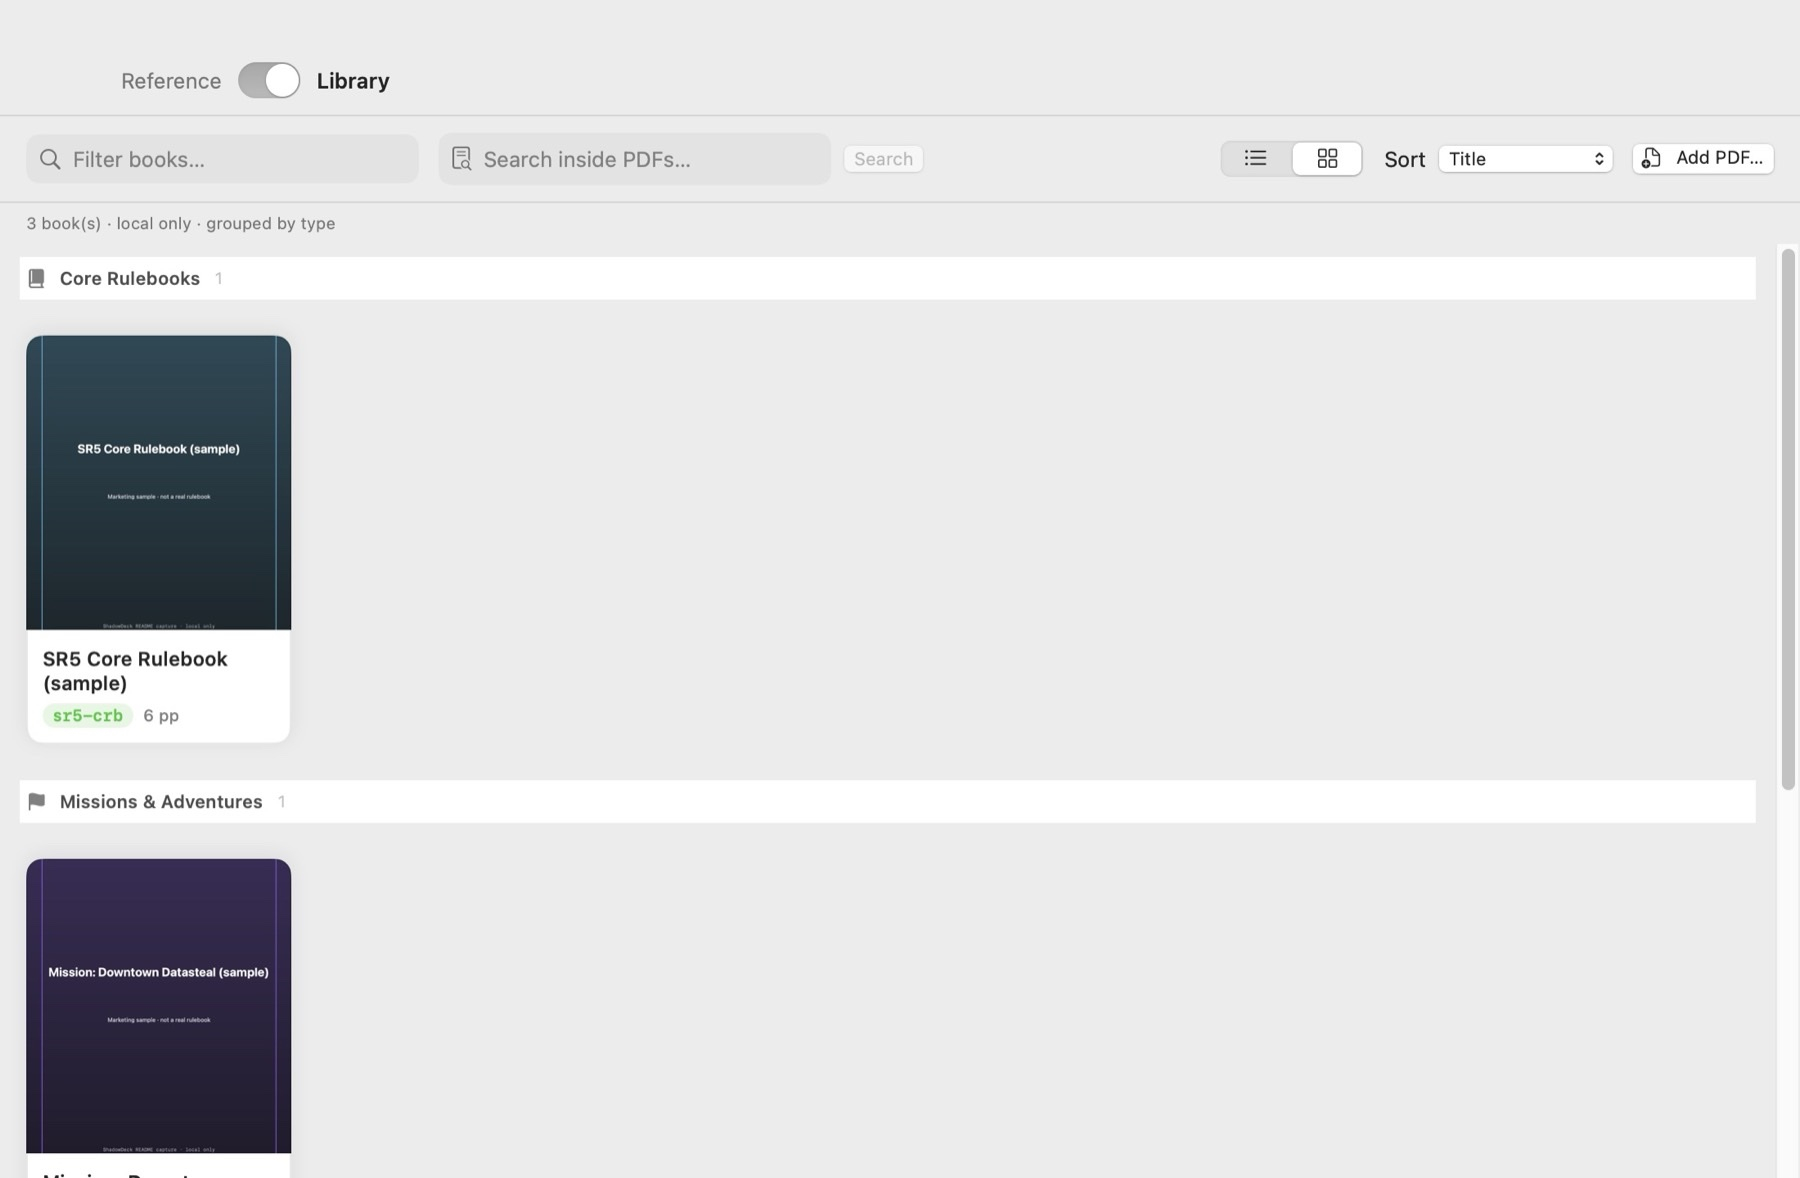
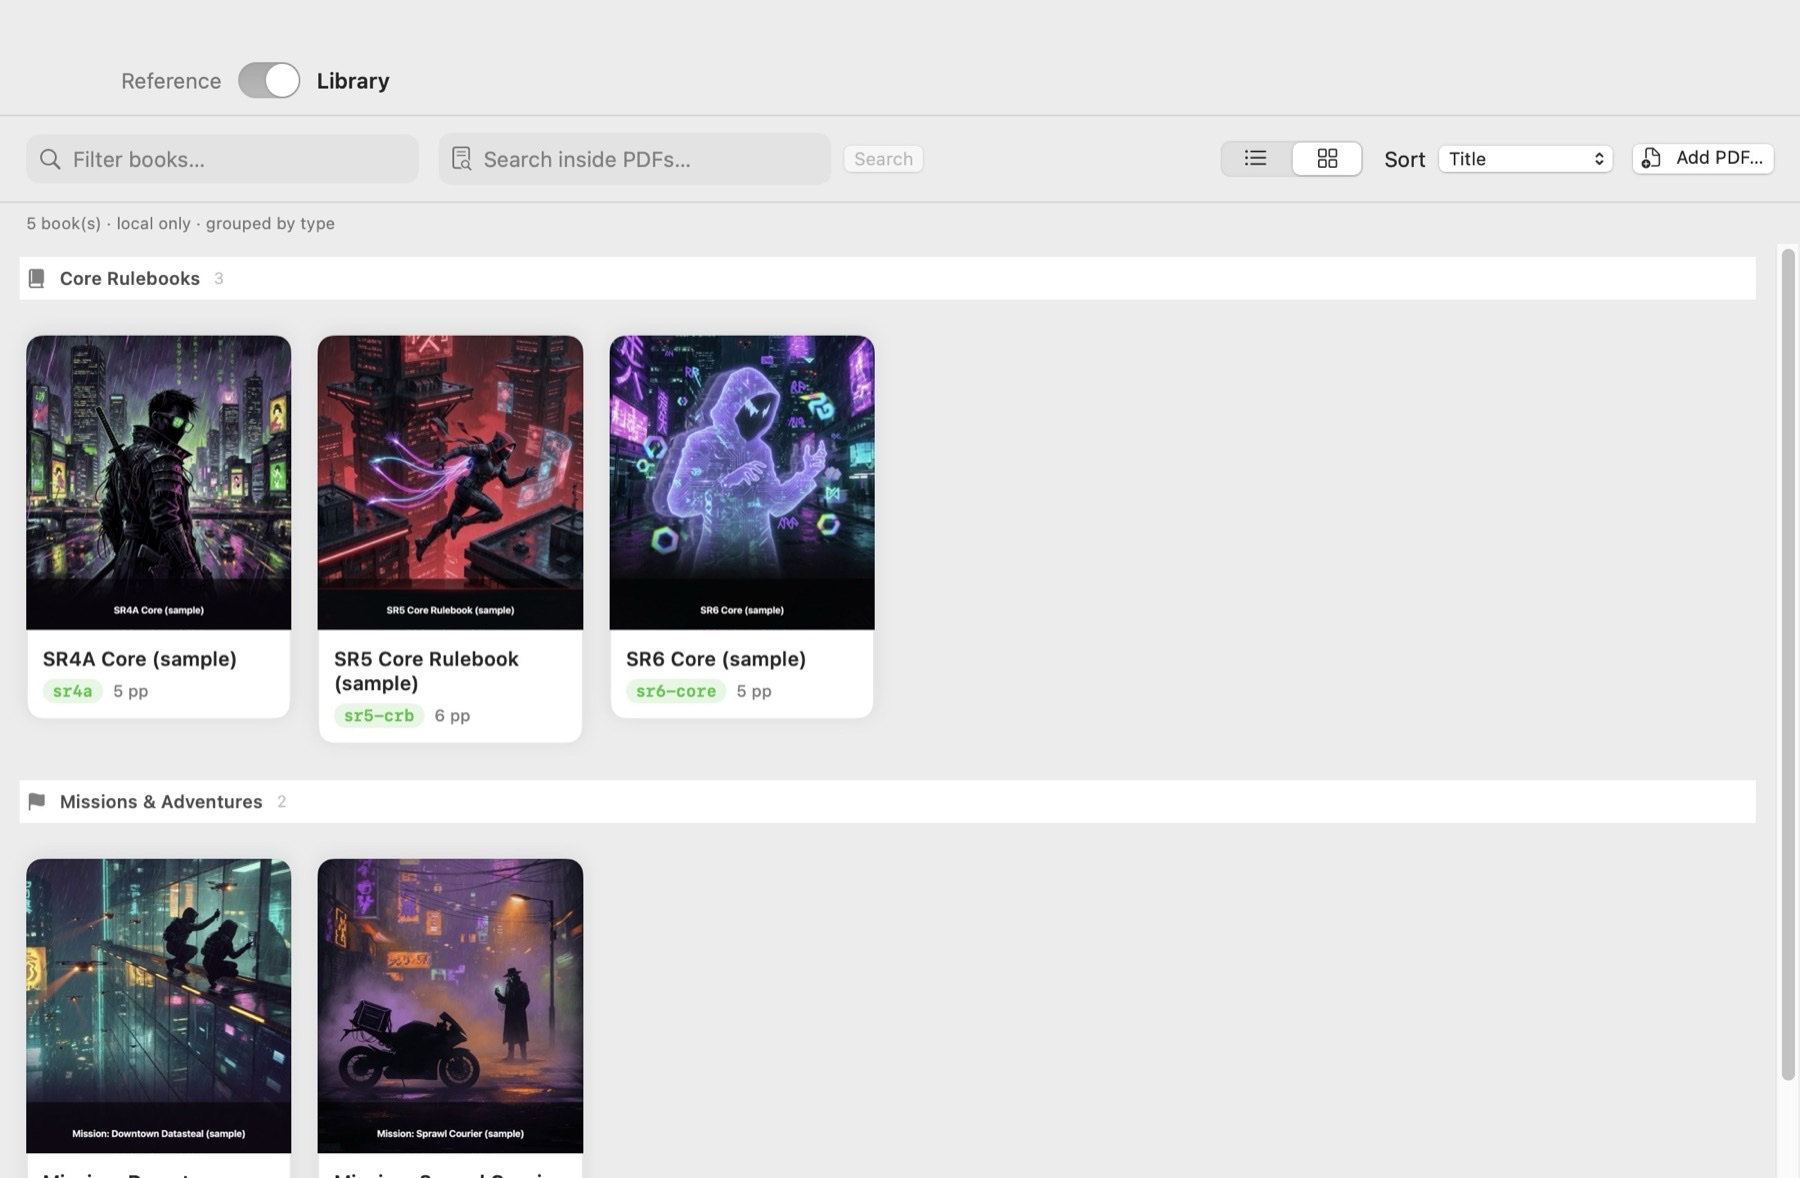
Add original PDF shelf cover art for marketing captures.
Imagine-generated sample covers for SR4/SR5/SR6 cores and two mission
modules; seed the capture shelf from those assets and refresh README
PDF Library stills.

Changed region(s): [[0.0, 0.275, 0.4978, 0.6112], [0.0, 0.7029, 0.3422, 1.0], [0.9644, 0.6723, 1.0, 0.9168]]

diff --git a/ShadowDeck/UI/Rules/RulesReferenceSession.swift b/ShadowDeck/UI/Rules/RulesReferenceSession.swift
@@ -58,27 +58,78 @@ final class RulesReferenceSession: ObservableObject {
 
 // MARK: - Marketing sample PDFs
 
-/// Synthetic multi-page PDFs for README captures (labels say “sample”; no real rule text).
+/// Synthetic multi-page PDFs for README captures (covers from bundled original art;
+/// labels say “sample”; no real rule text or publisher assets).
 @MainActor
 enum MarketingPDFLibrarySeeder {
+    private struct Spec {
+        var title: String
+        var bookKey: String?
+        var tags: [String]
+        var section: PDFShelfSection
+        var coverResource: String
+        var pages: Int
+    }
+
+    /// Three core samples (one per edition) + two mission samples for the shelf marquee.
+    private static let specs: [Spec] = [
+        Spec(
+            title: "SR4A Core (sample)",
+            bookKey: PageRef.BookKey.sr4a,
+            tags: ["SR4"],
+            section: .coreRulebook,
+            coverResource: "cover_sr4_core",
+            pages: 5
+        ),
+        Spec(
+            title: "SR5 Core Rulebook (sample)",
+            bookKey: PageRef.BookKey.sr5CRB,
+            tags: ["SR5"],
+            section: .coreRulebook,
+            coverResource: "cover_sr5_core",
+            pages: 6
+        ),
+        Spec(
+            title: "SR6 Core (sample)",
+            bookKey: PageRef.BookKey.sr6Core,
+            tags: ["SR6"],
+            section: .coreRulebook,
+            coverResource: "cover_sr6_core",
+            pages: 5
+        ),
+        Spec(
+            title: "Mission: Downtown Datasteal (sample)",
+            bookKey: "srm-datasteal",
+            tags: ["SR5"],
+            section: .mission,
+            coverResource: "cover_mission_datasteal",
+            pages: 4
+        ),
+        Spec(
+            title: "Mission: Sprawl Courier (sample)",
+            bookKey: "srm-sprawl",
+            tags: ["SR5"],
+            section: .mission,
+            coverResource: "cover_mission_sprawl",
+            pages: 4
+        )
+    ]
+
     static func makeStore() throws -> PDFLibraryStore {
         let root = FileManager.default.temporaryDirectory
             .appendingPathComponent("ShadowDeck-Marketing-PDF-\(UUID().uuidString)", isDirectory: true)
         try FileManager.default.createDirectory(at: root, withIntermediateDirectories: true)
         var store = PDFLibraryStore(items: [], rootDirectory: root)
 
-        let specs: [(title: String, bookKey: String?, tags: [String], section: PDFShelfSection, pages: Int, hue: CGFloat)] = [
-            ("SR5 Core Rulebook (sample)", PageRef.BookKey.sr5CRB, ["SR5"], .coreRulebook, 6, 0.55),
-            ("Run & Gun (sample)", "run-gun", ["SR5"], .sourcebook, 4, 0.08),
-            ("Mission: Downtown Datasteal (sample)", "srm-sample", ["SR5"], .mission, 3, 0.72)
-        ]
-
         for spec in specs {
-            let url = root.appendingPathComponent("\(spec.bookKey ?? UUID().uuidString).pdf")
+            let fileBase = (spec.bookKey ?? UUID().uuidString)
+                .replacingOccurrences(of: "/", with: "-")
+            let url = root.appendingPathComponent("\(fileBase).pdf")
+            let cover = loadCoverImage(named: spec.coverResource)
             try writeSamplePDF(
                 title: spec.title,
+                coverArt: cover,
                 pageCount: spec.pages,
-                hue: spec.hue,
                 to: url
             )
             _ = try store.addPDF(
@@ -92,7 +143,31 @@ enum MarketingPDFLibrarySeeder {
         return store
     }
 
-    private static func writeSamplePDF(title: String, pageCount: Int, hue: CGFloat, to url: URL) throws {
+    private static func loadCoverImage(named name: String) -> NSImage? {
+        let bundle = Bundle.main
+        let candidates: [URL?] = [
+            bundle.url(forResource: name, withExtension: "jpg", subdirectory: "Brand/MarketingPDFCovers"),
+            bundle.url(forResource: name, withExtension: "jpg", subdirectory: "MarketingPDFCovers"),
+            bundle.url(forResource: name, withExtension: "jpg", subdirectory: "Brand"),
+            bundle.url(forResource: name, withExtension: "jpg"),
+            URL(fileURLWithPath: #filePath)
+                .deletingLastPathComponent()
+                .deletingLastPathComponent()
+                .deletingLastPathComponent()
+                .appendingPathComponent("Resources/Brand/MarketingPDFCovers/\(name).jpg")
+        ]
+        for url in candidates.compactMap({ $0 }) where FileManager.default.fileExists(atPath: url.path) {
+            if let image = NSImage(contentsOf: url) { return image }
+        }
+        return nil
+    }
+
+    private static func writeSamplePDF(
+        title: String,
+        coverArt: NSImage?,
+        pageCount: Int,
+        to url: URL
+    ) throws {
         let doc = PDFDocument()
         let pageSize = NSSize(width: 612, height: 792) // US Letter points
         for index in 0..<pageCount {
@@ -100,7 +175,7 @@ enum MarketingPDFLibrarySeeder {
                 title: title,
                 page: index + 1,
                 total: pageCount,
-                hue: hue,
+                coverArt: coverArt,
                 size: pageSize
             )
             guard let pdfPage = PDFPage(image: image) else {
@@ -117,56 +192,85 @@ enum MarketingPDFLibrarySeeder {
         title: String,
         page: Int,
         total: Int,
-        hue: CGFloat,
+        coverArt: NSImage?,
         size: NSSize
     ) -> NSImage {
         let image = NSImage(size: size)
         image.lockFocus()
         let bounds = NSRect(origin: .zero, size: size)
 
-        let top = NSColor(calibratedHue: hue, saturation: 0.55, brightness: 0.28, alpha: 1)
-        let bottom = NSColor(calibratedHue: hue, saturation: 0.35, brightness: 0.12, alpha: 1)
-        let gradient = NSGradient(starting: top, ending: bottom)
-        gradient?.draw(in: bounds, angle: -90)
-
-        let accent = NSColor(calibratedHue: hue, saturation: 0.7, brightness: 0.85, alpha: 1)
-        accent.withAlphaComponent(0.9).setStroke()
-        let inset = bounds.insetBy(dx: 36, dy: 36)
-        let border = NSBezierPath(roundedRect: inset, xRadius: 8, yRadius: 8)
-        border.lineWidth = 2
-        border.stroke()
+        if let coverArt {
+            // Cover-fill the page (crop sides if needed) so shelf thumbs match the art.
+            let artSize = coverArt.size
+            let scale = max(size.width / max(artSize.width, 1), size.height / max(artSize.height, 1))
+            let drawSize = NSSize(width: artSize.width * scale, height: artSize.height * scale)
+            let origin = NSPoint(
+                x: (size.width - drawSize.width) / 2,
+                y: (size.height - drawSize.height) / 2
+            )
+            let fraction: CGFloat = page == 1 ? 1 : 0.42
+            coverArt.draw(
+                in: NSRect(origin: origin, size: drawSize),
+                from: NSRect(origin: .zero, size: artSize),
+                operation: .copy,
+                fraction: fraction
+            )
+            if page > 1 {
+                NSColor.black.withAlphaComponent(0.55).setFill()
+                bounds.fill(using: .sourceOver)
+            }
+        } else {
+            NSColor(calibratedWhite: 0.08, alpha: 1).setFill()
+            bounds.fill()
+        }
 
         let paragraph = NSMutableParagraphStyle()
         paragraph.alignment = .center
 
-        let titleAttrs: [NSAttributedString.Key: Any] = [
-            .font: NSFont.systemFont(ofSize: page == 1 ? 28 : 20, weight: .bold),
-            .foregroundColor: NSColor.white,
-            .paragraphStyle: paragraph
-        ]
-        let subtitleAttrs: [NSAttributedString.Key: Any] = [
-            .font: NSFont.systemFont(ofSize: 13, weight: .medium),
-            .foregroundColor: NSColor.white.withAlphaComponent(0.75),
-            .paragraphStyle: paragraph
-        ]
-        let footerAttrs: [NSAttributedString.Key: Any] = [
-            .font: NSFont.monospacedSystemFont(ofSize: 11, weight: .regular),
-            .foregroundColor: NSColor.white.withAlphaComponent(0.55),
-            .paragraphStyle: paragraph
-        ]
+        if page == 1 {
+            // Title band over the art’s reserved lower third (cover art leaves dark space).
+            let band = NSRect(x: 0, y: 0, width: size.width, height: size.height * 0.22)
+            NSColor.black.withAlphaComponent(0.55).setFill()
+            band.fill(using: .sourceOver)
 
-        let titleRect = NSRect(x: 48, y: size.height * 0.52, width: size.width - 96, height: 80)
-        (title as NSString).draw(in: titleRect, withAttributes: titleAttrs)
-
-        let subtitle = page == 1
-            ? "Marketing sample · not a real rulebook"
-            : "Sample page \(page) of \(total)"
-        let subRect = NSRect(x: 48, y: size.height * 0.42, width: size.width - 96, height: 40)
-        (subtitle as NSString).draw(in: subRect, withAttributes: subtitleAttrs)
-
-        let footer = "ShadowDeck README capture · local only"
-        let footRect = NSRect(x: 48, y: 48, width: size.width - 96, height: 24)
-        (footer as NSString).draw(in: footRect, withAttributes: footerAttrs)
+            let titleAttrs: [NSAttributedString.Key: Any] = [
+                .font: NSFont.systemFont(ofSize: 22, weight: .bold),
+                .foregroundColor: NSColor.white,
+                .paragraphStyle: paragraph
+            ]
+            let subAttrs: [NSAttributedString.Key: Any] = [
+                .font: NSFont.systemFont(ofSize: 11, weight: .medium),
+                .foregroundColor: NSColor.white.withAlphaComponent(0.72),
+                .paragraphStyle: paragraph
+            ]
+            (title as NSString).draw(
+                in: NSRect(x: 28, y: size.height * 0.10, width: size.width - 56, height: 36),
+                withAttributes: titleAttrs
+            )
+            ("Marketing sample · not a real rulebook" as NSString).draw(
+                in: NSRect(x: 28, y: size.height * 0.05, width: size.width - 56, height: 20),
+                withAttributes: subAttrs
+            )
+        } else {
+            let titleAttrs: [NSAttributedString.Key: Any] = [
+                .font: NSFont.systemFont(ofSize: 18, weight: .semibold),
+                .foregroundColor: NSColor.white.withAlphaComponent(0.9),
+                .paragraphStyle: paragraph
+            ]
+            let subAttrs: [NSAttributedString.Key: Any] = [
+                .font: NSFont.monospacedSystemFont(ofSize: 12, weight: .regular),
+                .foregroundColor: NSColor.white.withAlphaComponent(0.65),
+                .paragraphStyle: paragraph
+            ]
+            (title as NSString).draw(
+                in: NSRect(x: 40, y: size.height * 0.52, width: size.width - 80, height: 40),
+                withAttributes: titleAttrs
+            )
+            ("Sample page \(page) of \(total) · ShadowDeck capture only" as NSString).draw(
+                in: NSRect(x: 40, y: size.height * 0.45, width: size.width - 80, height: 24),
+                withAttributes: subAttrs
+            )
+        }
 
         image.unlockFocus()
         return image

diff --git a/ShadowDeck/App/MarketingScreenshotExporter.swift b/ShadowDeck/App/MarketingScreenshotExporter.swift
@@ -116,7 +116,8 @@ enum MarketingScreenshotExporter {
         await captureStill(named: "06-rules-reference", to: dir, window: .rulesReference)
 
         post(.pdfLibrary)
-        try? await Task.sleep(nanoseconds: 1_400_000_000)
+        // Sample shelf builds 5 illustrated PDFs + gallery layout.
+        try? await Task.sleep(nanoseconds: 2_200_000_000)
         await captureStill(named: "09-pdf-library", to: dir, window: .rulesReference)
 
         // —— GIFs (main deck) ——

diff --git a/ShadowDeck/UI/Rules/RulesReferenceController.swift b/ShadowDeck/UI/Rules/RulesReferenceController.swift
@@ -424,6 +424,7 @@ final class RulesReferenceController: ObservableObject {
         mode = .library
         selectedLibraryItemID = nil
         libraryLayout = .gallery
+        librarySort = .title
         libraryFilter = ""
         libraryStatusMessage = nil
         libraryTextQuery = ""

diff --git a/Screenshots/README.md b/Screenshots/README.md
@@ -29,4 +29,4 @@ Full UI stills ~1800px long edge; thumbs ~960px. GIFs are silent and looping; st
 
 **Click-to-play:** GitHub has no pause/play control for GIFs and autoplays any embedded GIF. The README uses a `<details>` / `<summary>` poster; expanding reveals the looping GIF on the same page (better than linking to the raw file browser).
 
-**Privacy:** Capture always uses an **in-memory** character library seeded with sample characters only (`LibraryEnvironment.marketingCapture()`). The mission GIF creates its own run. Rules / PDF shots use **synthetic sample PDFs** in a temp shelf (labeled “sample”) — never your on-disk personal PDF library or character data.
+**Privacy:** Capture always uses an **in-memory** character library seeded with sample characters only (`LibraryEnvironment.marketingCapture()`). The mission GIF creates its own run. Rules / PDF shots use **synthetic sample PDFs** in a temp shelf (labeled “sample”) with bundled original cover art under `Resources/Brand/MarketingPDFCovers/` — never your on-disk personal PDF library or character data, and never publisher rulebook assets.
